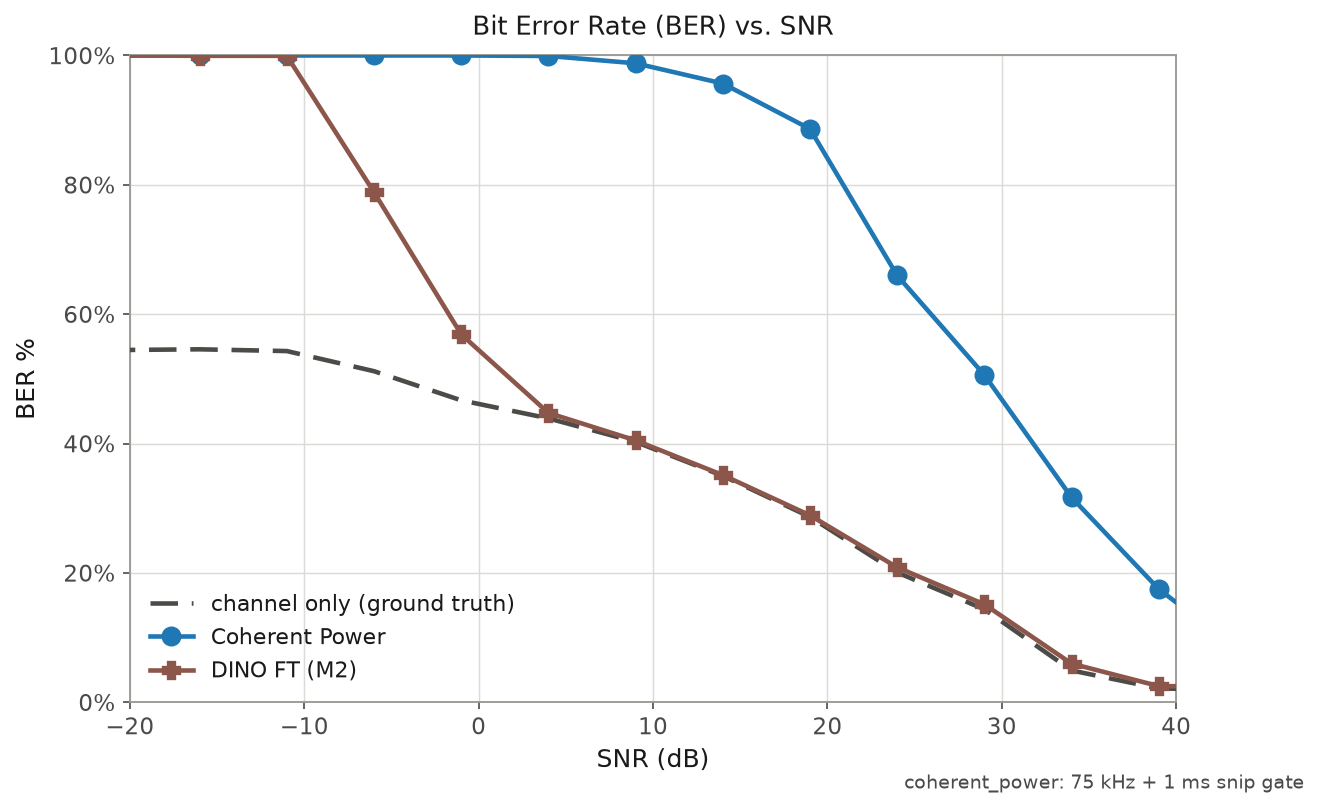
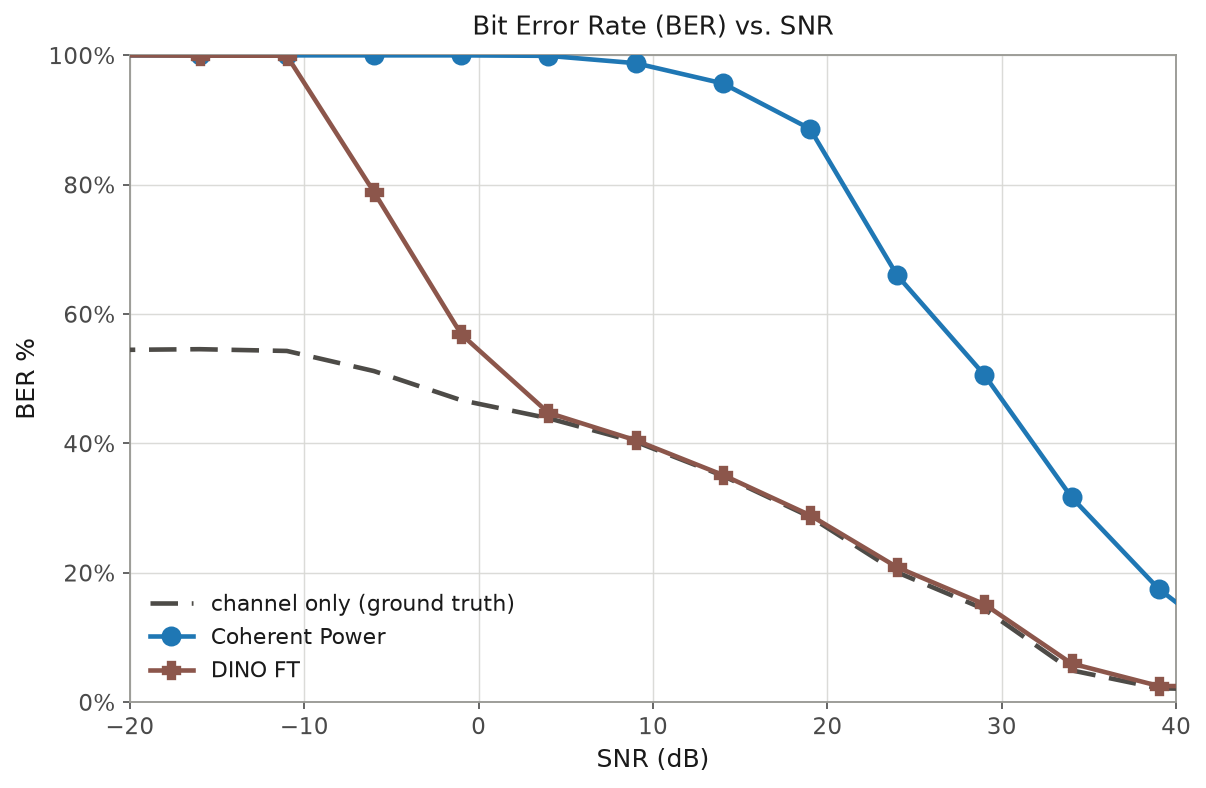
ber_eval: legend label "DINO FT (M2)" -> "DINO FT"
Regenerated every figure in all three results folders so the legend is consistent
everywhere. The checkpoint identity (M2_ft) stays documented in the READMEs and
comparison_config.yaml; it just no longer clutters the plot legends.

diff --git a/applications/usrp_wideband_signal_detection/infocom_evals/ber_eval/plot_ber_figs.py b/applications/usrp_wideband_signal_detection/infocom_evals/ber_eval/plot_ber_figs.py
@@ -52,7 +52,7 @@ GT = "ground_truth"
 STYLE = {
     GT:                  dict(color="#4d4b47", marker=None, ls=(0, (6, 3)), label="channel only (ground truth)"),
     "coherent_power":    dict(color="#1f77b4", marker="o",  ls="-", label="Coherent Power"),
-    "finetuned_dino_m2": dict(color="#8c564b", marker="P",  ls="-", label="DINO FT (M2)"),
+    "finetuned_dino_m2": dict(color="#8c564b", marker="P",  ls="-", label="DINO FT"),
 }
 DETS = ["coherent_power", "finetuned_dino_m2"]
 INK, INK2, GRID = "#1a1a1a", "#4a4a4a", "#d8d8d4"
